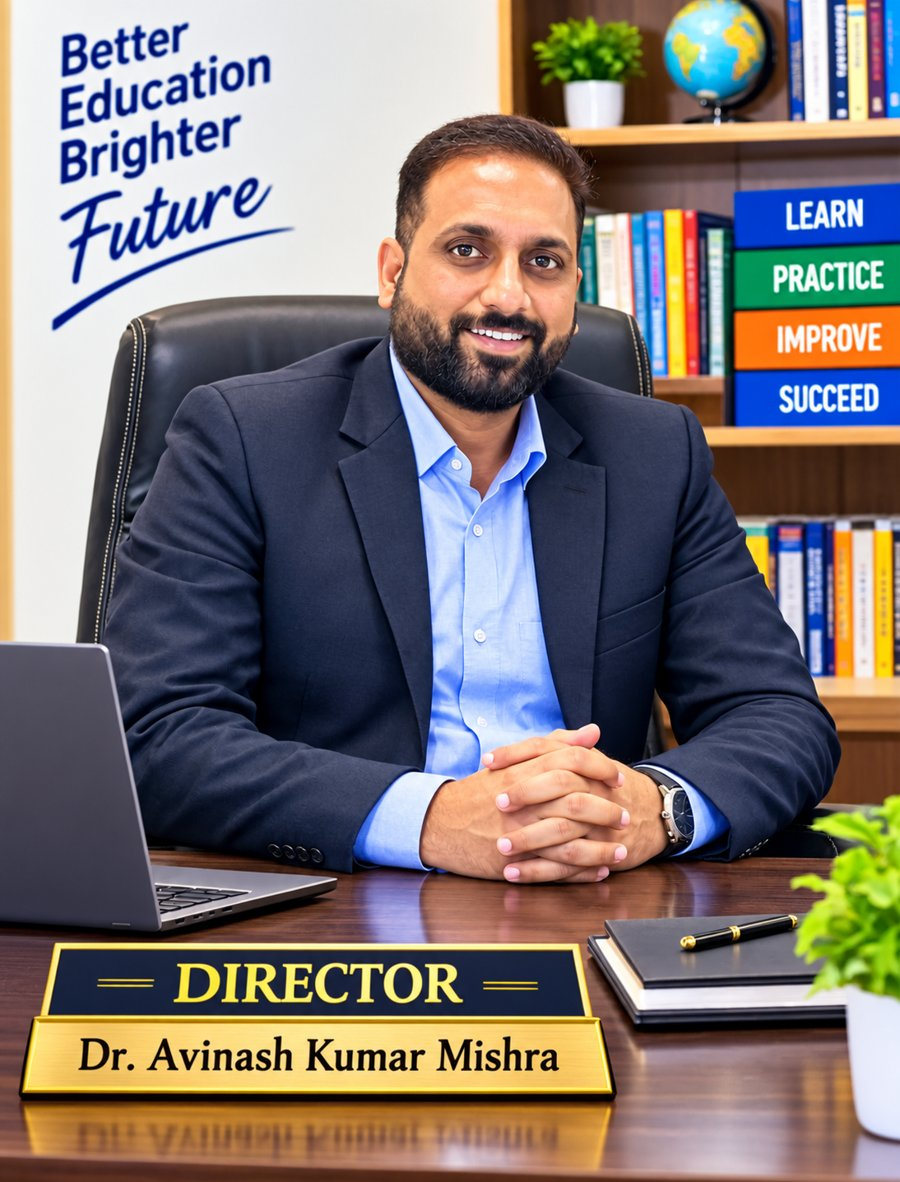
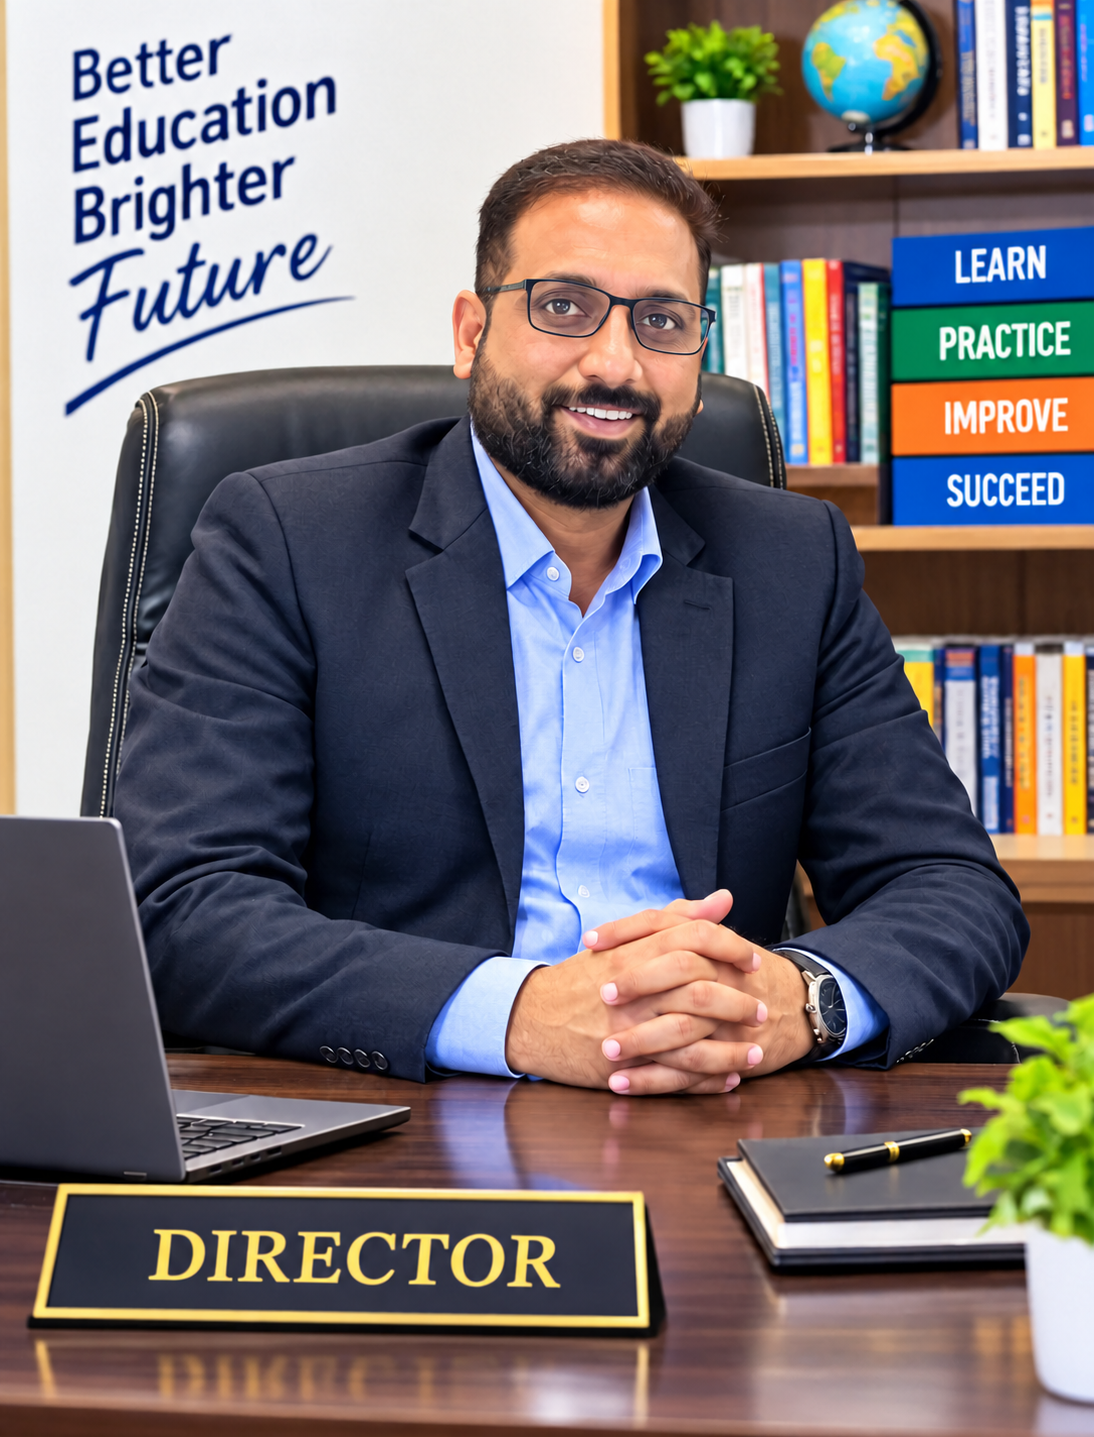
Update website files and responsive navbar

diff --git a/lets-talk-english-site/css/style.css b/lets-talk-english-site/css/style.css
@@ -1666,3 +1666,109 @@ h3{font-size:1.25rem}
 .gallery-arrow {
   font-size: 20px;
 }
+
+/* =====================================
+   RESPONSIVE MOBILE NAVBAR
+===================================== */
+
+/* Hide hamburger on desktop */
+.menu-btn {
+  display: none;
+}
+
+/* Tablet */
+@media (max-width: 900px) {
+  .header .nav {
+    gap: 12px;
+  }
+
+  .header .menu {
+    gap: 12px;
+  }
+}
+
+/* Mobile */
+@media (max-width: 768px) {
+
+  .header {
+    position: sticky;
+    top: 0;
+    z-index: 1000;
+  }
+
+  .header .nav {
+    position: relative;
+    display: flex;
+    align-items: center;
+    justify-content: space-between;
+    min-height: 68px;
+    gap: 12px;
+  }
+
+  /* Hamburger button */
+  .menu-btn {
+    display: flex;
+    flex-direction: column;
+    justify-content: center;
+    align-items: center;
+    gap: 5px;
+    width: 44px;
+    height: 44px;
+    padding: 8px;
+    border: none;
+    background: transparent;
+    cursor: pointer;
+    flex-shrink: 0;
+  }
+
+  .menu-btn span {
+    display: block;
+    width: 25px;
+    height: 3px;
+    background: #ffffff;
+    border-radius: 3px;
+  }
+
+  /* Hide menu by default */
+  .header .menu {
+    display: none;
+    position: absolute;
+    top: 100%;
+    left: 0;
+    right: 0;
+    width: 100%;
+    flex-direction: column;
+    align-items: stretch;
+    justify-content: flex-start;
+    gap: 4px;
+    padding: 12px 16px;
+    background: #0b2d5c;
+    border: none;
+    border-radius: 0 0 12px 12px;
+    box-shadow: 0 8px 18px rgba(0, 0, 0, 0.2);
+    z-index: 1001;
+  }
+
+  /* Open menu using existing JavaScript */
+  .header .menu.open {
+    display: flex;
+  }
+
+  /* Navigation links */
+  .header .menu > a:not(.btn) {
+    display: block;
+    width: 100%;
+    padding: 12px 14px;
+    color: #ffffff;
+    white-space: normal;
+  }
+
+  /* Call Now button */
+  .header .menu .btn {
+    display: flex;
+    width: 100%;
+    justify-content: center;
+    margin-top: 6px;
+    padding: 12px 20px;
+  }
+}

diff --git a/lets-talk-english-site/admin.html b/lets-talk-english-site/admin.html
@@ -1124,6 +1124,7 @@
           <h3 class="h5 fw-bold mb-1">Payment History</h3>
           <p class="muted mb-0">Recorded payments for the selected student.</p>
         </div>
+        <p>please tap refresh btn before record payment</p>
         <button type="button" id="refreshFeeDetails" class="btn btn-outline-primary">
           Refresh
         </button>
